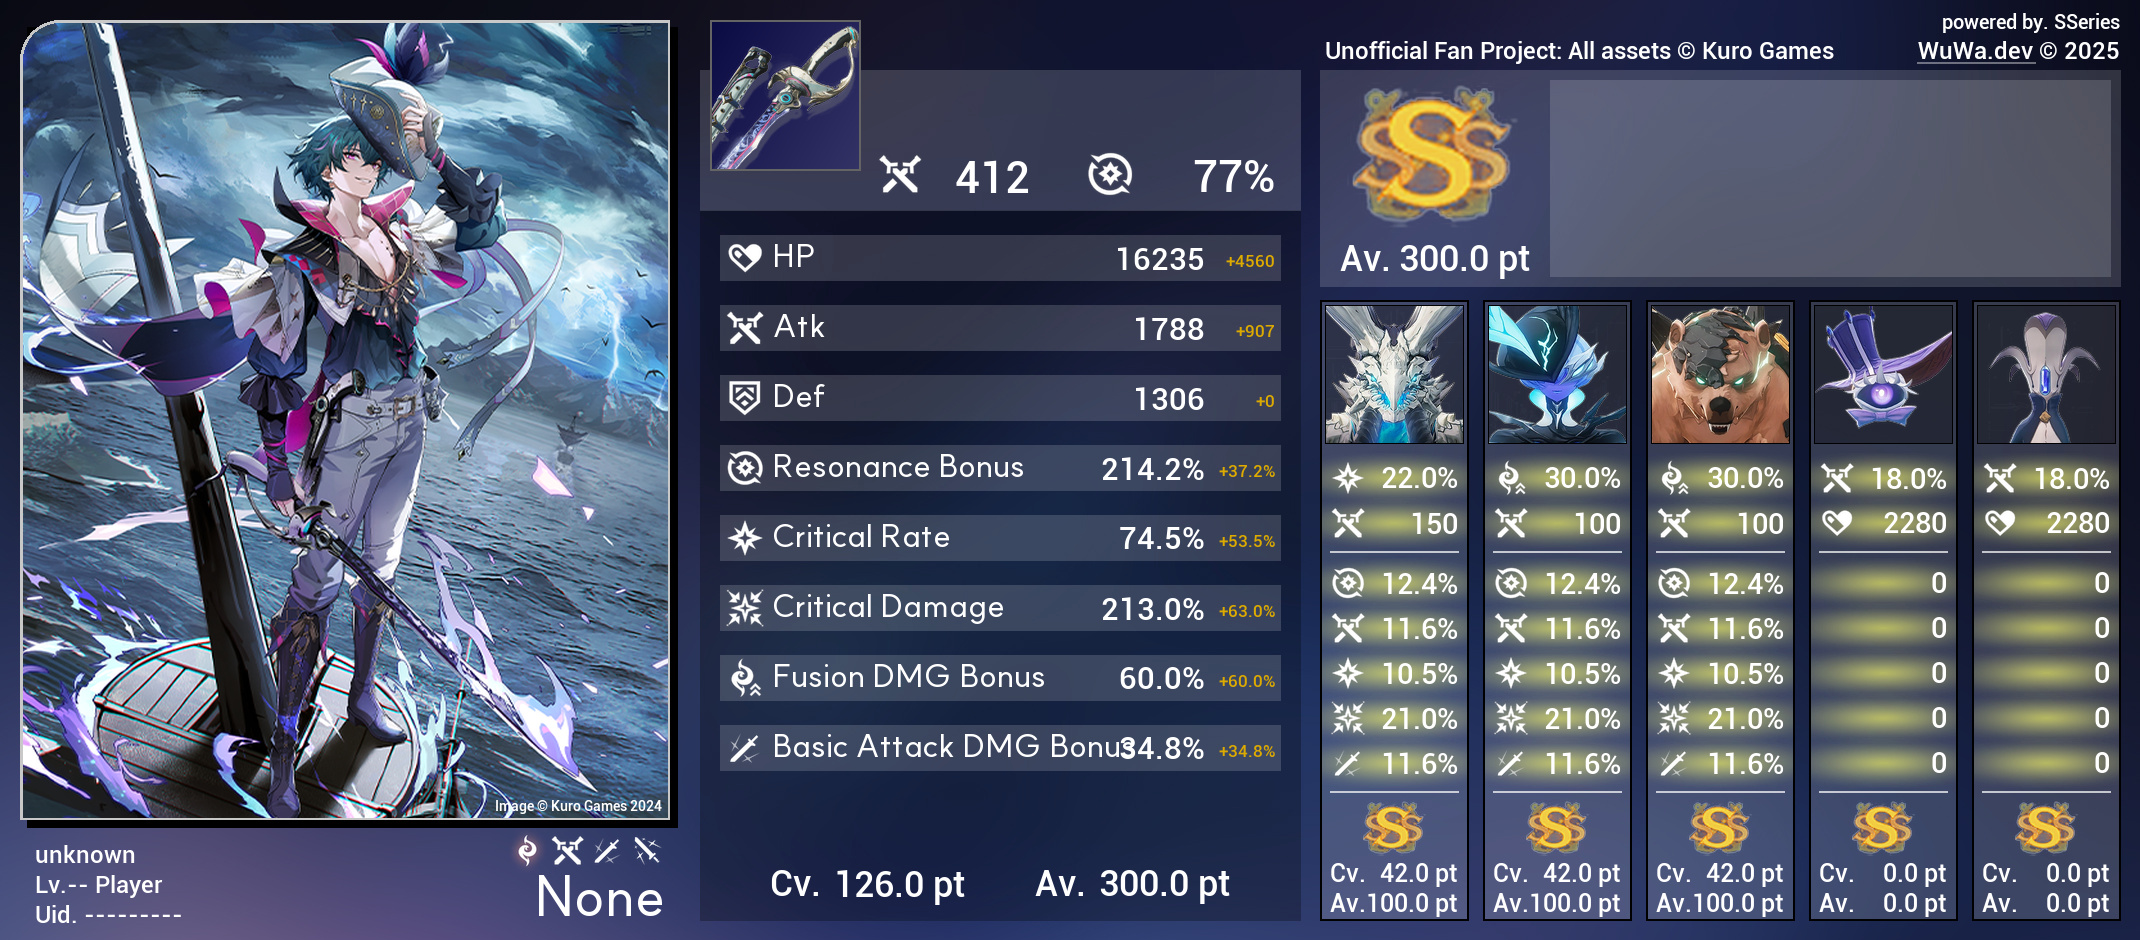
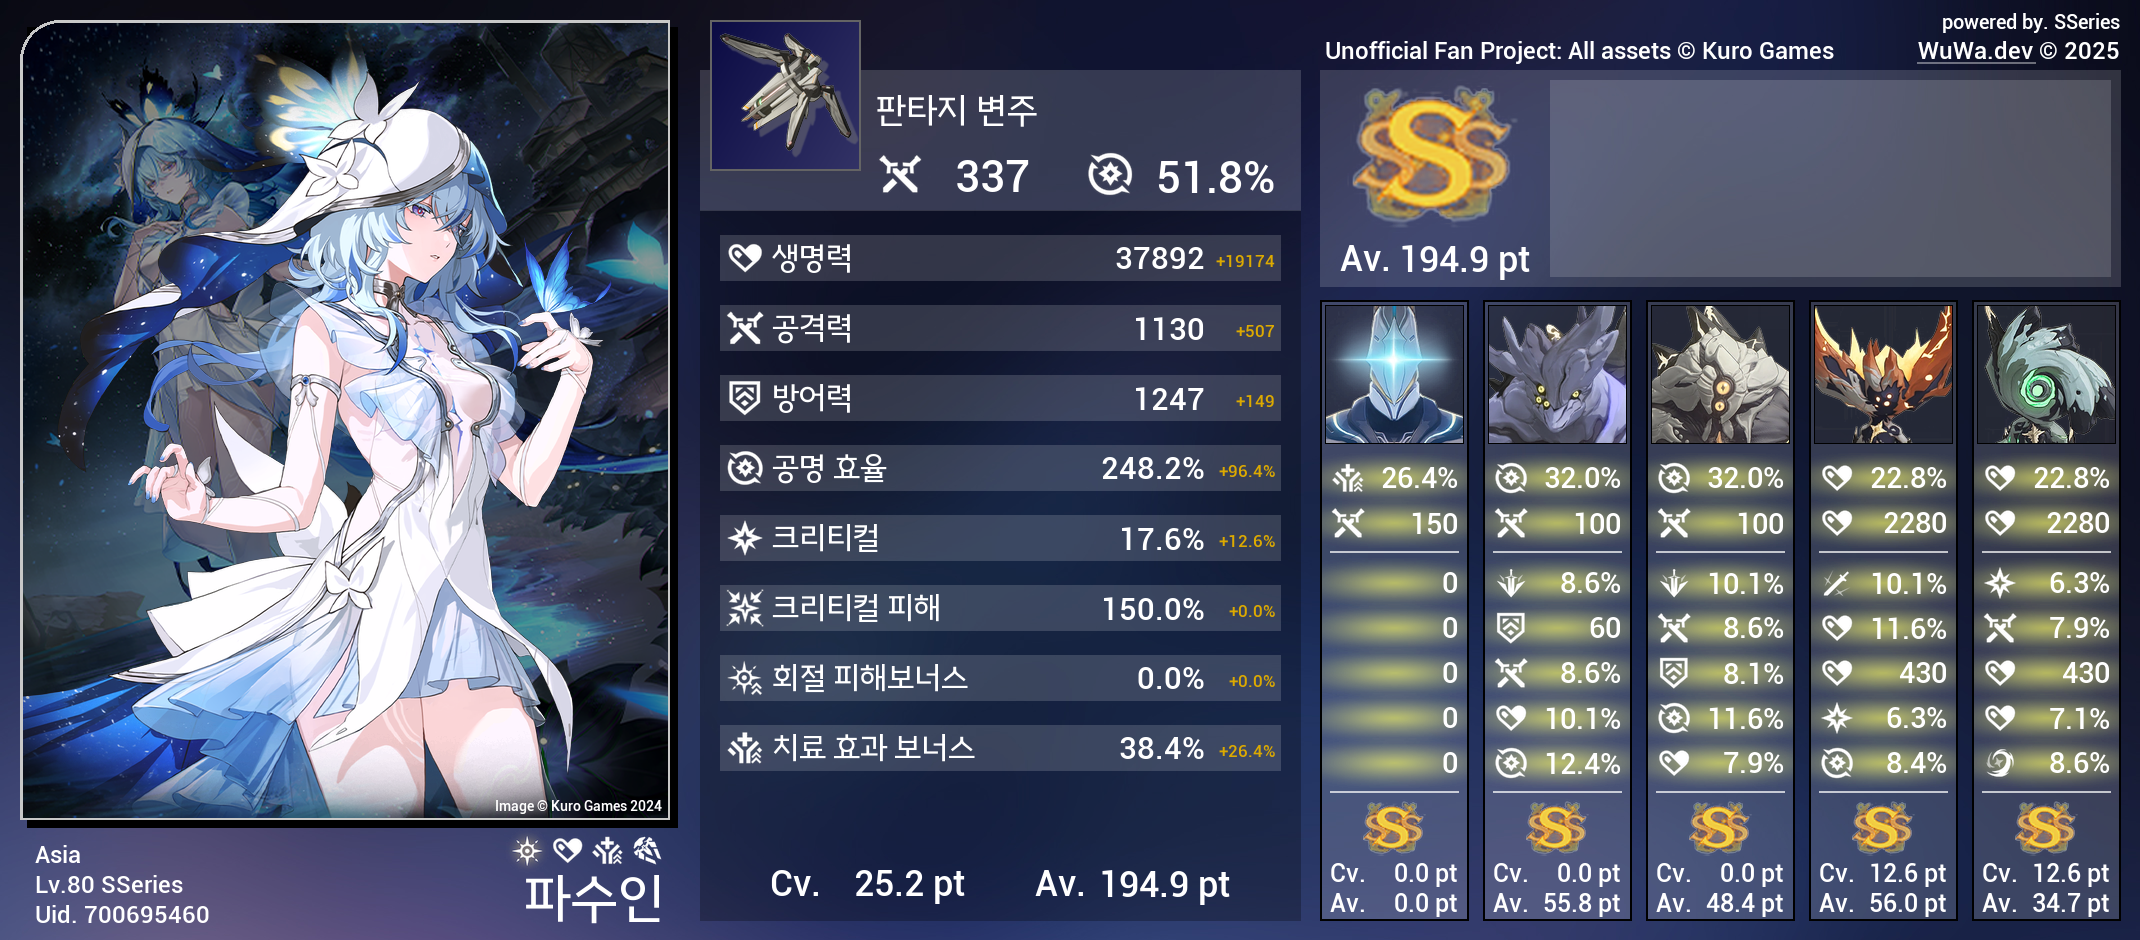
Add namecard assets and enhance profile card features
Added new namecard image assets and character UI images to the backend. Updated the profile card generation logic in the backend to support new image handling and color filtering. Enhanced the frontend ProfileCard component with a namecard selection dropdown, improved image data handling, and updated MakeData.js to support new image metadata fields.

diff --git a/frontend/src/components/ProfileCard.js b/frontend/src/components/ProfileCard.js
@@ -108,6 +108,10 @@ function ProfileCard() {
     //$ Image Data
     mainImage,
     subImage,
+    mainImageTrans,
+    subImageTrans,
+    mainImageCopyright,
+    subImageCopyright,
     imageCopyrightText,
     PatchImageCopyright,
     //$ character
@@ -323,29 +327,55 @@ function ProfileCard() {
     );
   }, [sizeValue, characterData]);
 
+  const namecardOption = useMemo(() => {
+    return Array.from({ length: 52 }, (_, idx) => ({
+      value: `${assetApiUrl}/namecard/T_Card${idx + 1}.png`,
+      label: (
+        <div
+          style={{
+            display: "flex",
+            alignItems: "center",
+            gap: `${15 * sizeValue}px`,
+          }}>
+          <img
+            alt=""
+            src={`${assetApiUrl}/namecard/T_Card${idx + 1}.png`}
+            style={{
+              width: `${230 * sizeValue}px`,
+              height: `${102 * sizeValue}px`,
+              overflow: "visible",
+            }}
+          />
+          <span
+            className={`${lang}Font`}
+            style={{
+              display: "flex",
+              width: "auto",
+              whiteSpace: "nowrap",
+              justifySelf: "flex-end",
+              textAlign: "right",
+            }}>{`Namecard ${idx + 1}`}</span>
+        </div>
+      ),
+    }));
+  }, [sizeValue])
+
   //#endregion
 
+  const [namecardInputable, setNamecardInputable] = useState(false);
   const [generatedImage, setGeneratedImage] = useState("./asdf2.jpg");
 
   return (
     <div key={lang} className="profile-portrait">
       {/*
+       */}
       <button
         onClick={async () => {
           try {
             const imageFile = mainImage;
             const subFile = subImage;
 
-            console.log(mainImage);
-            console.log(subImage);
-
-            const imageData = {
-              name: "Aalto",
-              element: "Aero",
-              weapon: "Pistols",
-            };
-
-            const data = {
+            const dataA = {
               lang,
               constellation,
               characterData,
@@ -358,14 +388,22 @@ function ProfileCard() {
               harmonyOption,
               userData,
             };
-            const statData = MakeStatData(data);
+            const dataB = {
+              mainImageTrans,
+              subImageTrans,
+              mainImageCopyright,
+              subImageCopyright,
+            };
+            const statData = MakeStatData(dataA);
+            const imageData = MakeImageData(dataB);
             console.log(statData);
+            console.log(imageData);
 
             const formData = new FormData();
             if (imageFile) formData.append("image_character", imageFile);
             if (subFile) formData.append("image_sub", subFile);
-            formData.append("image_data", JSON.stringify(imageData));
             formData.append("stat_data", JSON.stringify(statData));
+            formData.append("image_data", JSON.stringify(imageData));
 
             const response = await fetch(
               "http://127.0.0.1:8000/generate_card",
@@ -385,6 +423,7 @@ function ProfileCard() {
         test
       </button>
       <img src={generatedImage} />
+      {/*
        */}
       <div className="profile-filter-slot">
         {Object.values(WEAPON_TYPES).map((item, idx) => (
@@ -511,6 +550,7 @@ function ProfileCard() {
               menuList: (prev) => ({
                 ...prev,
                 backgroundColor: UI_COLOR[2],
+                borderRadius: "4px",
               }),
               valueContainer: (base) => ({
                 ...base,
@@ -583,6 +623,7 @@ function ProfileCard() {
               menuList: (prev) => ({
                 ...prev,
                 backgroundColor: UI_COLOR[2],
+                borderRadius: "4px",
               }),
               option: (base) => ({
                 ...base,
@@ -605,6 +646,51 @@ function ProfileCard() {
               setWeaponId(item.value);
             }}
           />
+        </div>
+        <div className="empty-select-dropdown" />
+        <div>
+          <Select
+            options={namecardOption}
+            styles={{
+              control: (base, state) => ({
+                ...base,
+                width: `${350 * sizeValue}px`,
+                height: `${100 * sizeValue}px`,
+                overflow: "visible",
+                background: `linear-gradient(330deg, ${UI_COLOR[0]} 0%, ${UI_COLOR[1]} 100%)`,
+              }),
+              menu: (base) => ({
+                ...base,
+                zIndex: 9999,
+              }),
+              option: (base) => ({
+                ...base,
+                height: `${135 * sizeValue}px`,
+                background: `linear-gradient(330deg, ${UI_COLOR[0]} 0%, ${UI_COLOR[1]} 100%)`,
+              }),
+              menuList: (prev) => ({
+                ...prev,
+                backgroundColor: UI_COLOR[2],
+                borderRadius: "4px",
+                width: "fit-content",
+                minWidth: "100%",
+                maxWidth: "200%",
+                color: "#fff"
+              }),
+              valueContainer: (base) => ({
+                ...base,
+                height: "100%",
+                color: "#fff"
+              }),
+              singleValue: (base) => ({
+                ...base,
+                overflow: "visible",
+                display: "flex",
+                alignItems: "center",
+                gap: 8,
+                color: "#fff"
+              }),
+            }}/>
         </div>
       </div>
       {/* //$ Card Top Info Field */}

diff --git a/frontend/src/hooks/useProfile.js b/frontend/src/hooks/useProfile.js
@@ -64,7 +64,6 @@ export function ProfileProvider({ children }) {
     const raw = localStorage.getItem(`${characterId}EchoData`);
     const parsed = raw ? normalize(JSON.parse(raw)) : null;
 
-    // 기본값: 빈 에코 5개 생성
     const defaultEcho = [
       createEmptyEcho(4),
       createEmptyEcho(3),
@@ -75,7 +74,6 @@ export function ProfileProvider({ children }) {
 
     const data = parsed ?? defaultEcho;
 
-    // $ 각 echo의 subStats 길이가 5보다 짧으면 부족한 부분을 채워줌
     const fixedData = data.map((echo) => {
       if (!Array.isArray(echo.subStats)) echo.subStats = [];
       while (echo.subStats.length < 5) {

diff --git a/frontend/src/hooks/MakeData.js b/frontend/src/hooks/MakeData.js
@@ -117,11 +117,21 @@ export function MakeStatData(data) {
   return statData;
 }
 export function MakeImageData(data) {
+  const {
+    mainImageTrans,
+    subImageTrans,
+    mainImageCopyright,
+    subImageCopyright,
+  } = data;
+
   const imageData = {
-    auther: ["", ""],
-    img_xyz_main: [0, 0, 1],
-    img_xyz_sub: [0, 0, 1],
+    img_main_trans: mainImageTrans,
+    img_sub_trans: subImageTrans,
+    img_main_auther: mainImageCopyright,
+    img_sub_auther: subImageCopyright,
   }
+
+  return imageData;
 }
 
 /*

diff --git a/backend/Image maker/main.py b/backend/Image maker/main.py
@@ -49,32 +49,24 @@ def draw_rect(base, xy, color):
 
 # --------------------------------------------------------
 
-def draw_rect_topleft_round(base, xy1, xy2, radius, fill, color_filter=(255,255,255), border=None, img_path=None):
+def draw_rect_topleft_round(base, xy1, xy2, radius, fill = None, color_filter=(255,255,255), border=None, img_path=None):
     x1, y1, w, h = xy1
     x_off, y_off, a = xy2
 
     rounded = Image.new("RGBA", (w, h), (0, 0, 0, 0))
     draw = ImageDraw.Draw(rounded)
 
-    draw.rectangle((0, radius, w, h), fill=fill)
-    draw.rectangle((radius, 0, w, radius), fill=fill)
-    draw.pieslice((0, 0, radius * 2, radius * 2), 180, 270, fill=fill)
-    # --------------------------------------------------------
     if img_path:
-        if img_path:
-            if img_path.startswith("http"):
-                response = requests.get(img_path)
-                img = Image.open(BytesIO(response.content)).convert("RGBA")
-            else:
-                img = Image.open(img_path).convert("RGBA")
+        if img_path.startswith("http"):
+            response = requests.get(img_path)
+            img = Image.open(BytesIO(response.content)).convert("RGBA")
+        else:
+            img = Image.open(img_path).convert("RGBA")
+
         iw, ih = img.size
-
-        cx = w / 2
-        cy = h / 2
-
+        cx, cy = w / 2, h / 2
         scale = (h / ih) * a
-        new_w = int(iw * scale)
-        new_h = int(ih * scale)
+        new_w, new_h = int(iw * scale), int(ih * scale)
         img = img.resize((new_w, new_h), Image.LANCZOS)
 
         paste_x = int(cx + x_off - new_w / 2)
@@ -86,16 +78,21 @@ def draw_rect_topleft_round(base, xy1, xy2, radius, fill, color_filter=(255,255,
         mdraw.rectangle((radius, 0, w, radius), fill=255)
         mdraw.pieslice((0, 0, radius * 2, radius * 2), 180, 270, fill=255)
 
-        temp_layer = Image.new("RGBA", (w, h), (0, 0, 0, 0))
-        temp_layer.paste(img, (paste_x, paste_y), mask=img)
-        temp_layer.putalpha(mask)
+        if fill is None:
+            temp_layer = Image.new("RGBA", (w, h), (0, 0, 0, 0))
+            temp_layer.paste(img, (paste_x, paste_y), mask=img.split()[-1])
+            rounded.alpha_composite(temp_layer)
 
-        rounded.alpha_composite(temp_layer)
+        else:
+            temp_layer = Image.new("RGBA", (w, h), (0, 0, 0, 0))
+            temp_layer.paste(img, (paste_x, paste_y), mask=img.split()[-1])
+            temp_layer.putalpha(mask)
+            rounded.alpha_composite(temp_layer)
     # --------------------------------------------------------
-    if color_filter is not (255, 255, 255):
+    if color_filter != (255, 255, 255):
         r, g, b = color_filter
-        color_layer = Image.new("RGBA", overlay.size, (r, g, b, 255))
-        overlay = ImageChops.multiply(overlay, color_layer)
+        color_layer = Image.new("RGBA", rounded.size, (r, g, b, 255))
+        rounded = ImageChops.multiply(rounded, color_layer)
     # --------------------------------------------------------
     if border:
         if isinstance(border[0], (tuple, list)):
@@ -147,7 +144,7 @@ def draw_image(base, path, xy, color_filter = (255, 255, 255), opacity=1.0):
             alpha = alpha.point(lambda p: int(p * opacity))
             overlay.putalpha(alpha)
 
-        if color_filter is not (255, 255, 255):
+        if color_filter != (255, 255, 255):
             r, g, b = color_filter
             color_layer = Image.new("RGBA", overlay.size, (r, g, b, 255))
             overlay = ImageChops.multiply(overlay, color_layer)
@@ -197,23 +194,17 @@ async def create_profile_card(
         with open(input_main, "wb") as f:
             f.write(await image_character.read())
     else:
-        input_main = "./default.webp" 
+        input_main = f"./assets/character/{stat_data.get("c_id")}/stand.png"
 
     if image_sub:
         input_sub = img_sub_path
         with open(input_sub, "wb") as f:
             f.write(await image_sub.read())
     else:
-        input_sub = "./default.webp"
+        input_sub = None
         
     # --------------------------------------------------------
-
     base = Image.open("./assets/BG.jpg").convert("RGBA")
-    img_main = Image.open(input_main).convert("RGBA")
-
-    if input_sub and os.path.exists(input_sub):
-        img_sub = Image.open(input_sub).convert("RGBA")
-        base.paste(img_sub, (25, 25), img_sub)
 
     #$ Portarit Init.
     draw = ImageDraw.Draw(base)
@@ -225,15 +216,24 @@ async def create_profile_card(
     # --------------------------------------------------------
 
     #$ Character Image
-    character_img_path = f"https://pub-9fd284d1a89c4bee9e0a92c921c2b28d.r2.dev/character/{stat_data.get("c_id")}/art.png"
+    character_art_path = f"https://pub-9fd284d1a89c4bee9e0a92c921c2b28d.r2.dev/character/{stat_data.get("c_id")}/art.png"
     draw_rect_topleft_round(
         base, 
         xy1=(20, 20, 650, 800), 
         xy2=(0, 0, 1.04), 
         radius=40, 
         fill=(255, 255, 255, round(255 * 0.4)), 
+        color_filter=(150, 150, 150),
         border=((200, 200, 200), 5), 
-        img_path=character_img_path
+        img_path=character_art_path
+    )
+    draw_rect_topleft_round(
+        base, 
+        xy1=(20, 20, 650, 800), 
+        xy2=(0, 0, 1.04), 
+        radius=40, 
+        border=((200, 200, 200), 5), 
+        img_path=input_main
     )
     
     #$ Weapon Image
